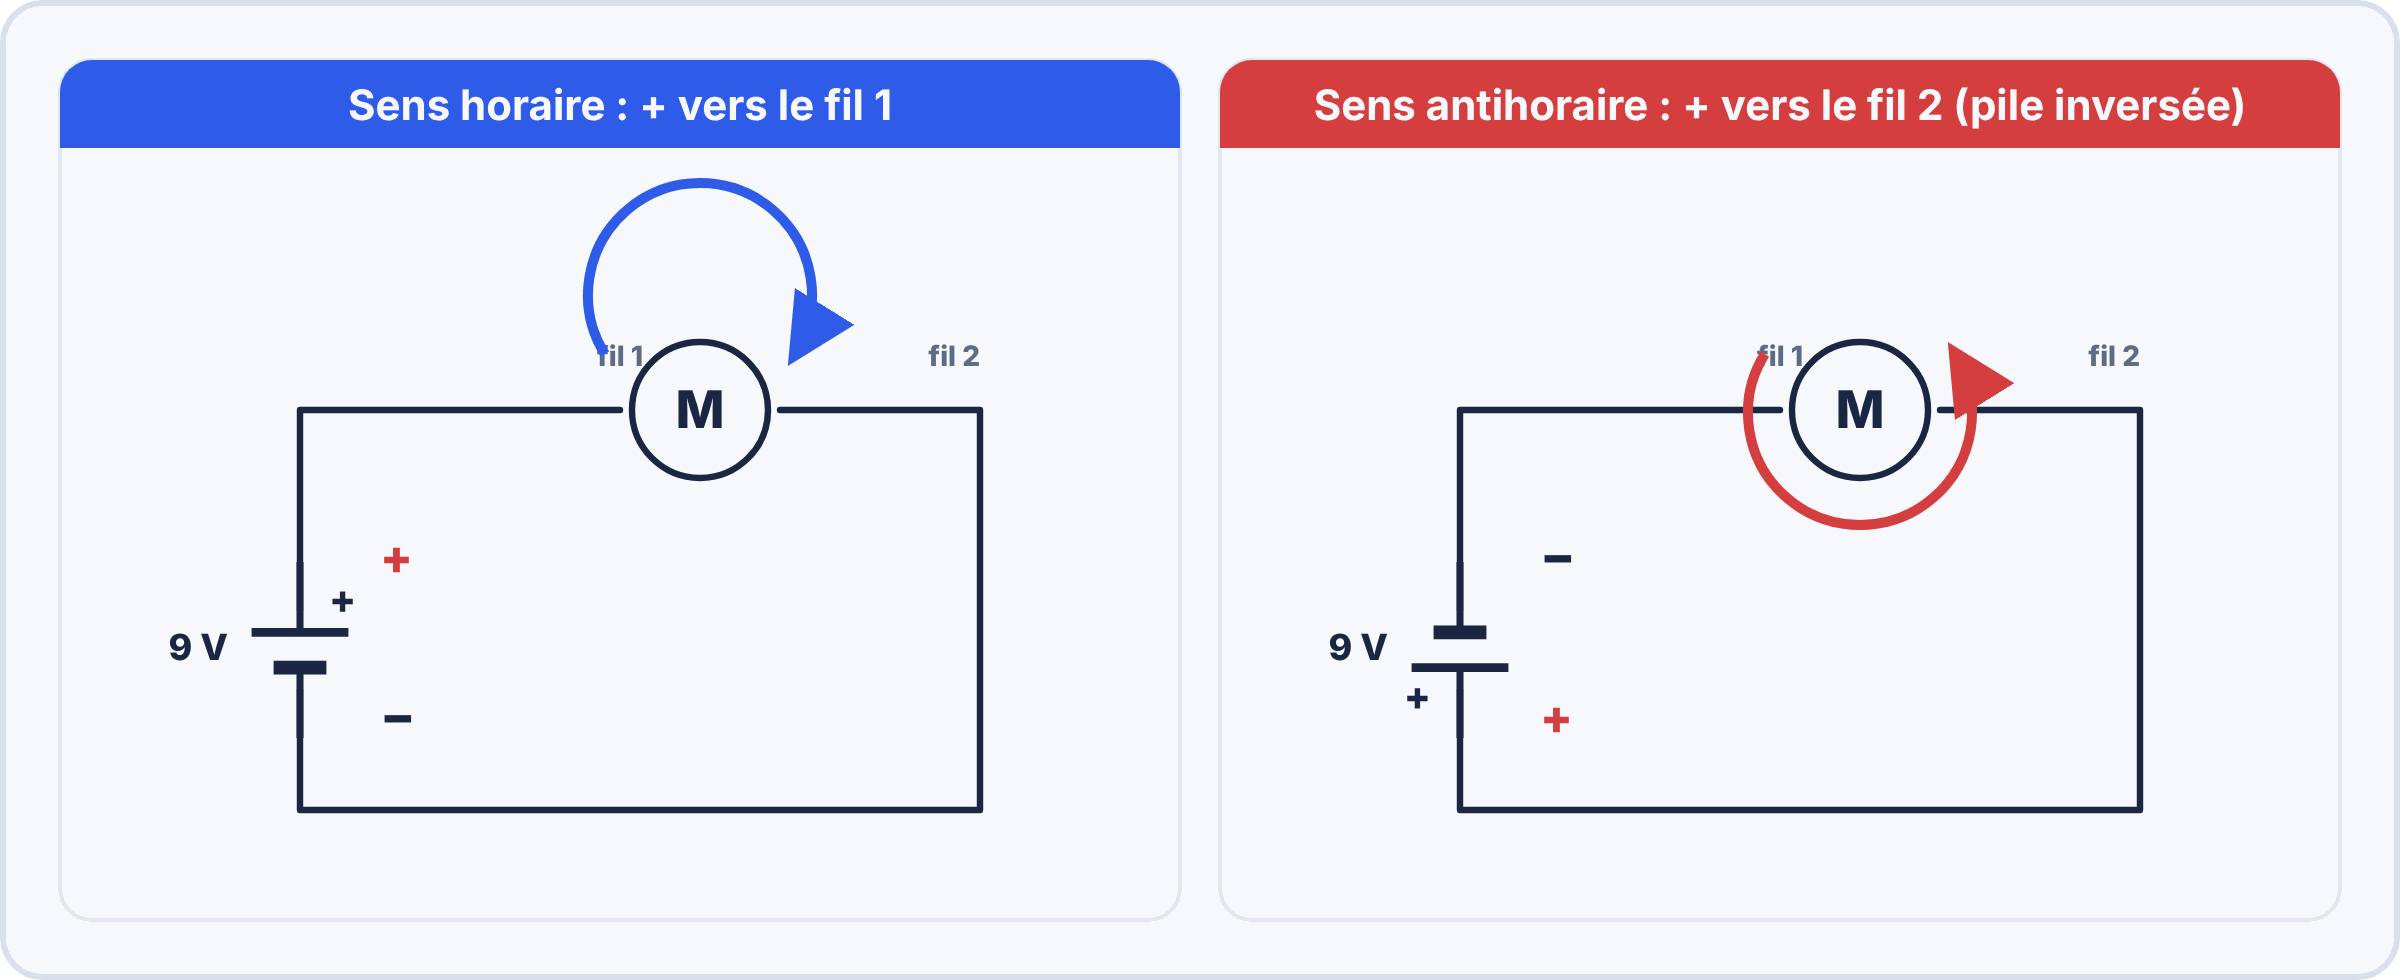
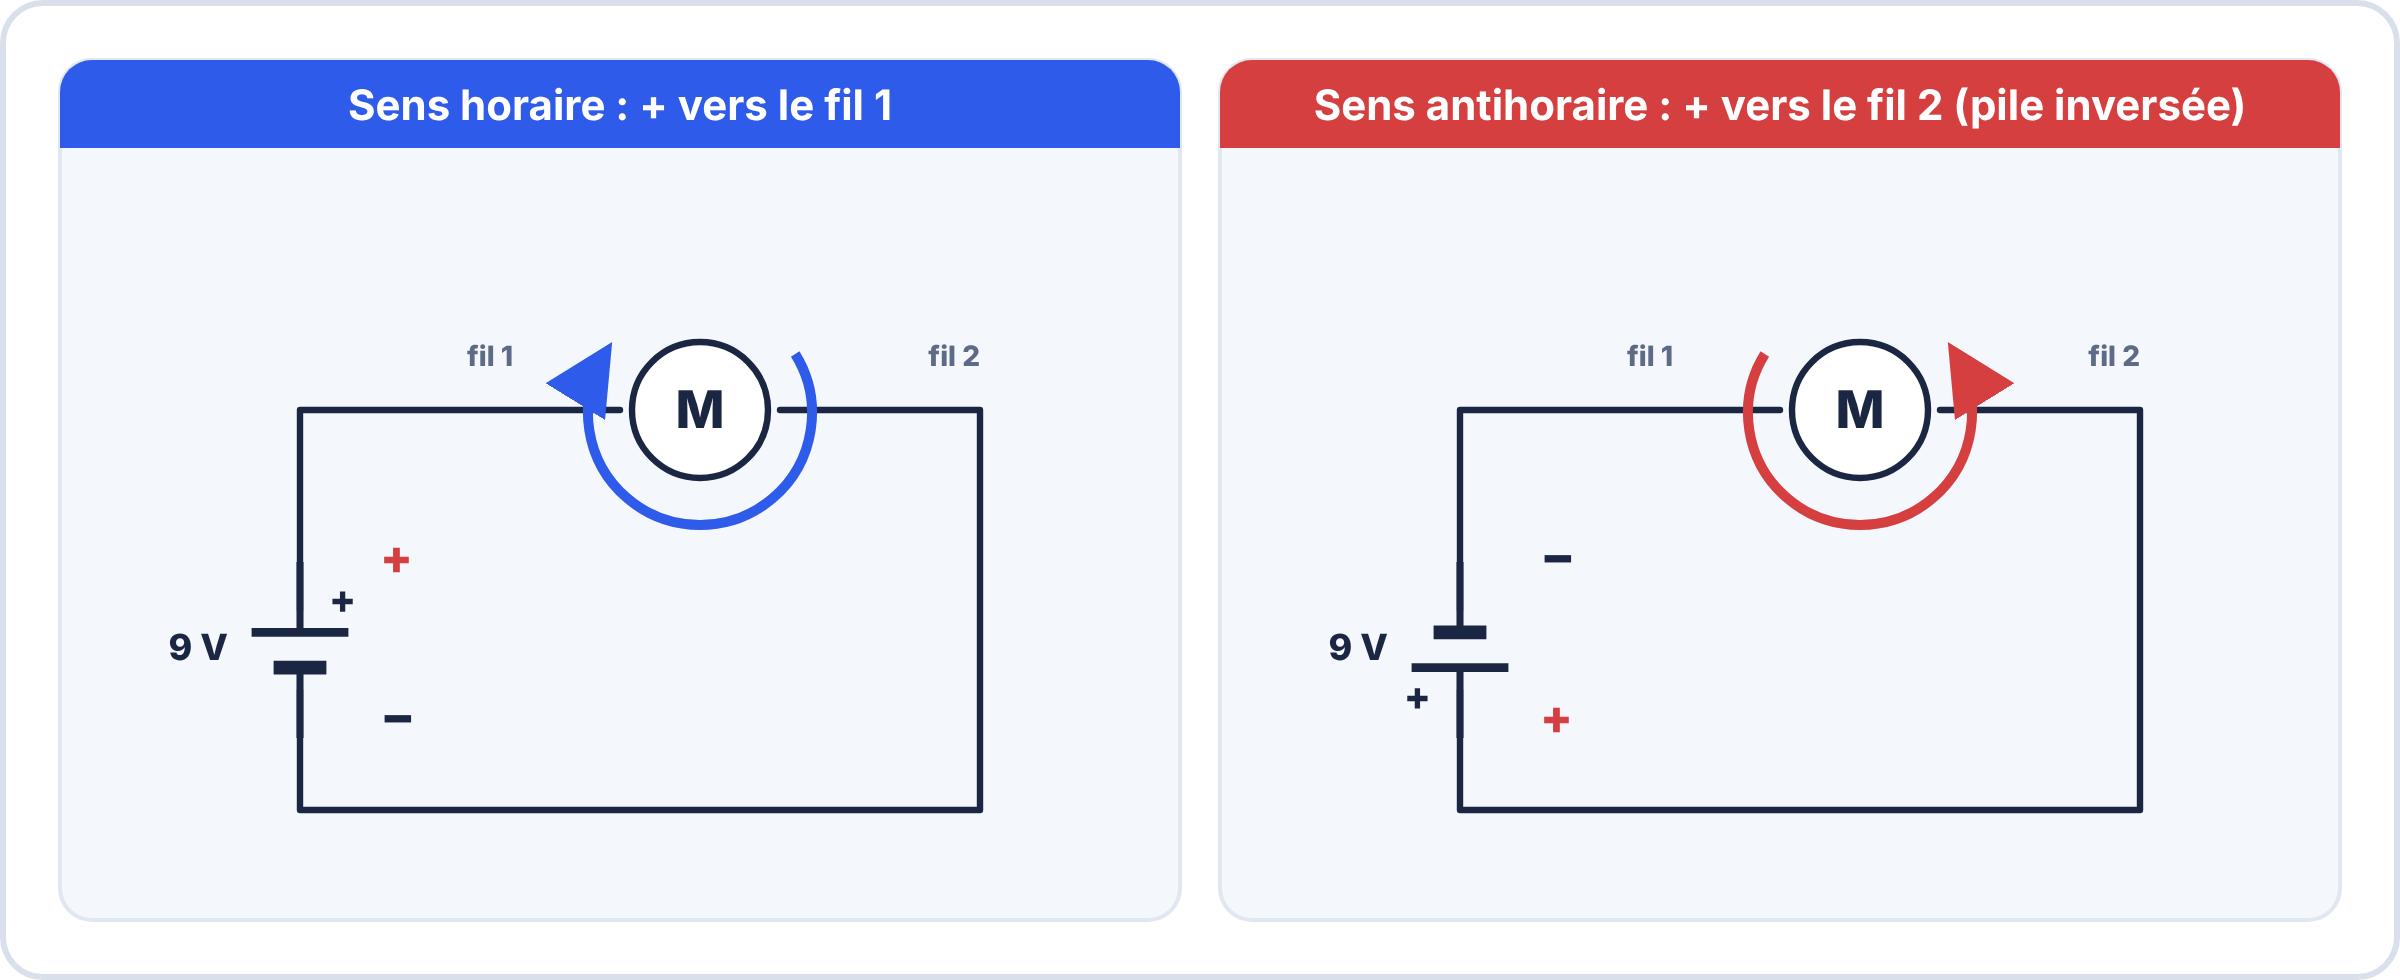
Moteur : flèche de rotation horaire dessinée comme l'antihoraire (autour du moteur) ; étiquette fil 1 dégagée
Claude-Session: https://claude.ai/code/session_018Ln2Xo12prChdSPrkdSn9D

diff --git a/outils/illustrations-e2/figs_sec4.py b/outils/illustrations-e2/figs_sec4.py
@@ -40,9 +40,10 @@ def motor_panel(px, cw, label, col):
     o += T(L + 36, 200 if cw else 345, "+", 26, 800, INK) if False else ""
     o += T(L + 40, 232 if cw else 312, "+", 24, 800, RED, "start") + T(L + 40, 312 if cw else 232, "−", 26, 800, INK, "start")
     o += g(px + 320, 150, '<circle r="34" fill="#fff" stroke="#1b2742" stroke-width="3.2"/><text y="9" font-size="26" font-weight="800" text-anchor="middle" fill="#1b2742">M</text>')
-    o += T(px + 280, 128, "fil 1", 14, 800, MUTED) + T(px + 460, 128, "fil 2", 14, 800, MUTED, "end")
+    o += T(px + 215, 128, "fil 1", 14, 800, MUTED) + T(px + 460, 128, "fil 2", 14, 800, MUTED, "end")
     cx, r, sweep = px + 320, 56, (1 if cw else 0)
-    o += f'<path d="M{cx-r*0.85},{150-r*0.5} A{r},{r} 0 1 {sweep} {cx+r*0.85},{150-r*0.5}" fill="none" stroke="{col}" stroke-width="5" marker-end="url(#arr)"/>'
+    x0, x1 = (cx + r * 0.85, cx - r * 0.85) if cw else (cx - r * 0.85, cx + r * 0.85)
+    o += f'<path d="M{x0},{150-r*0.5} A{r},{r} 0 1 {sweep} {x1},{150-r*0.5}" fill="none" stroke="{col}" stroke-width="5" marker-end="url(#arr)"/>'
     return o + "</g>"
 
 
